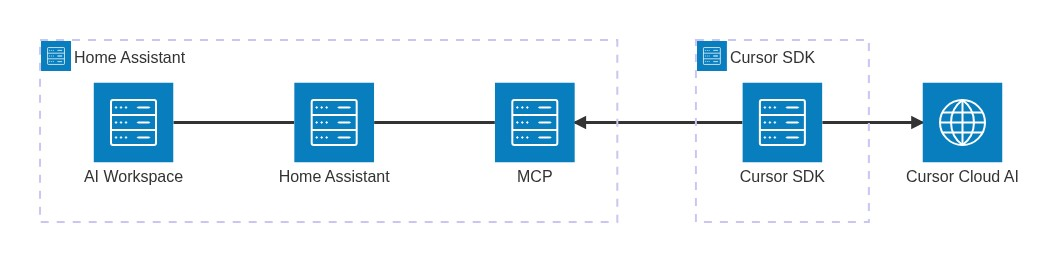
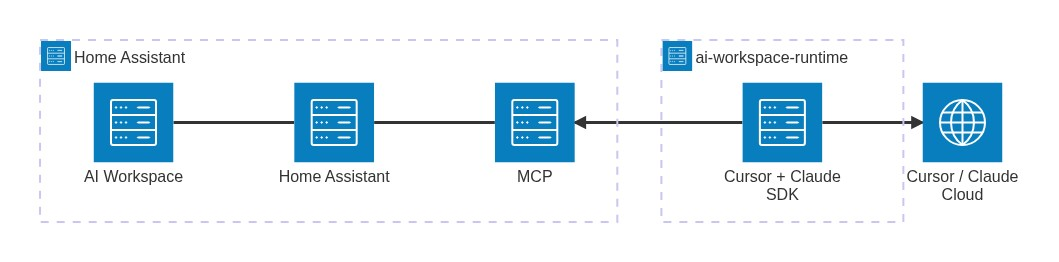
Restore architecture-beta JPGs for the runtime diagrams.

diff --git a/README.md b/README.md
@@ -132,23 +132,7 @@ Install AI Workspace from HACS first ([step 1](#1-install-ai-workspace-from-hacs
 
 The **AI Workspace Runtime** app runs on the same machine as Home Assistant — **Cursor** (Composer, Grok, Cursor API key) and **Claude SDK** in one place.
 
-```mermaid
-flowchart LR
-  subgraph HAOS["Home Assistant OS"]
-    AW[AI Workspace]
-    HA[Home Assistant]
-    MCP[MCP]
-    RT[AI Workspace Runtime]
-    AW --> HA --> MCP
-    MCP <--> RT
-  end
-  CC[Cursor Cloud AI]
-  CL[Claude / OpenRouter]
-  RT --> CC
-  RT --> CL
-```
-
-*AI Workspace, Home Assistant, MCP, and the runtime app inside Home Assistant OS; Cursor Cloud AI and Claude / OpenRouter outside.*
+![Home Assistant OS with AI Workspace Runtime and Cursor / Claude Cloud](docs/os-architecture.jpg)
 
 Add this repository to Apps and install **AI Workspace Runtime**:
 
@@ -162,25 +146,7 @@ Home Assistant 2026.2 renamed "Add-ons" to "Apps".
 
 If Home Assistant is a Docker container (no Supervisor), run the **`ai-workspace-runtime`** container beside it. Home Assistant talks to that runtime; the runtime runs **Cursor** and **Claude SDK**, talks to MCP, and reaches Cursor Cloud AI or Claude / OpenRouter as needed.
 
-```mermaid
-flowchart LR
-  subgraph HAC["Home Assistant container"]
-    AW2[AI Workspace]
-    HA2[Home Assistant]
-    MCP2[MCP]
-    AW2 --> HA2 --> MCP2
-  end
-  subgraph RTBOX["ai-workspace-runtime"]
-    RTIN[Cursor + Claude SDK]
-  end
-  MCP2 <--> RTBOX
-  CC2[Cursor Cloud AI]
-  CL2[Claude / OpenRouter]
-  RTBOX --> CC2
-  RTBOX --> CL2
-```
-
-*Home Assistant in one container; **ai-workspace-runtime** beside it with Cursor and Claude SDK; cloud arrows as above.*
+![Home Assistant container, ai-workspace-runtime, Cursor / Claude Cloud](docs/docker-architecture.jpg)
 
 Paste your Cursor API key from [Cursor Dashboard → Integrations](https://cursor.com/dashboard/integrations) into [docker-compose.runtime.yml](docker-compose.runtime.yml) when you use Cursor agents. For Claude SDK, set `OPENROUTER_API_KEY`, `CLAUDE_CODE_OAUTH_TOKEN`, or `ANTHROPIC_API_KEY` on the container ([details](docs/claude-runtime.md)); the compose file already lists them as comments.
 
